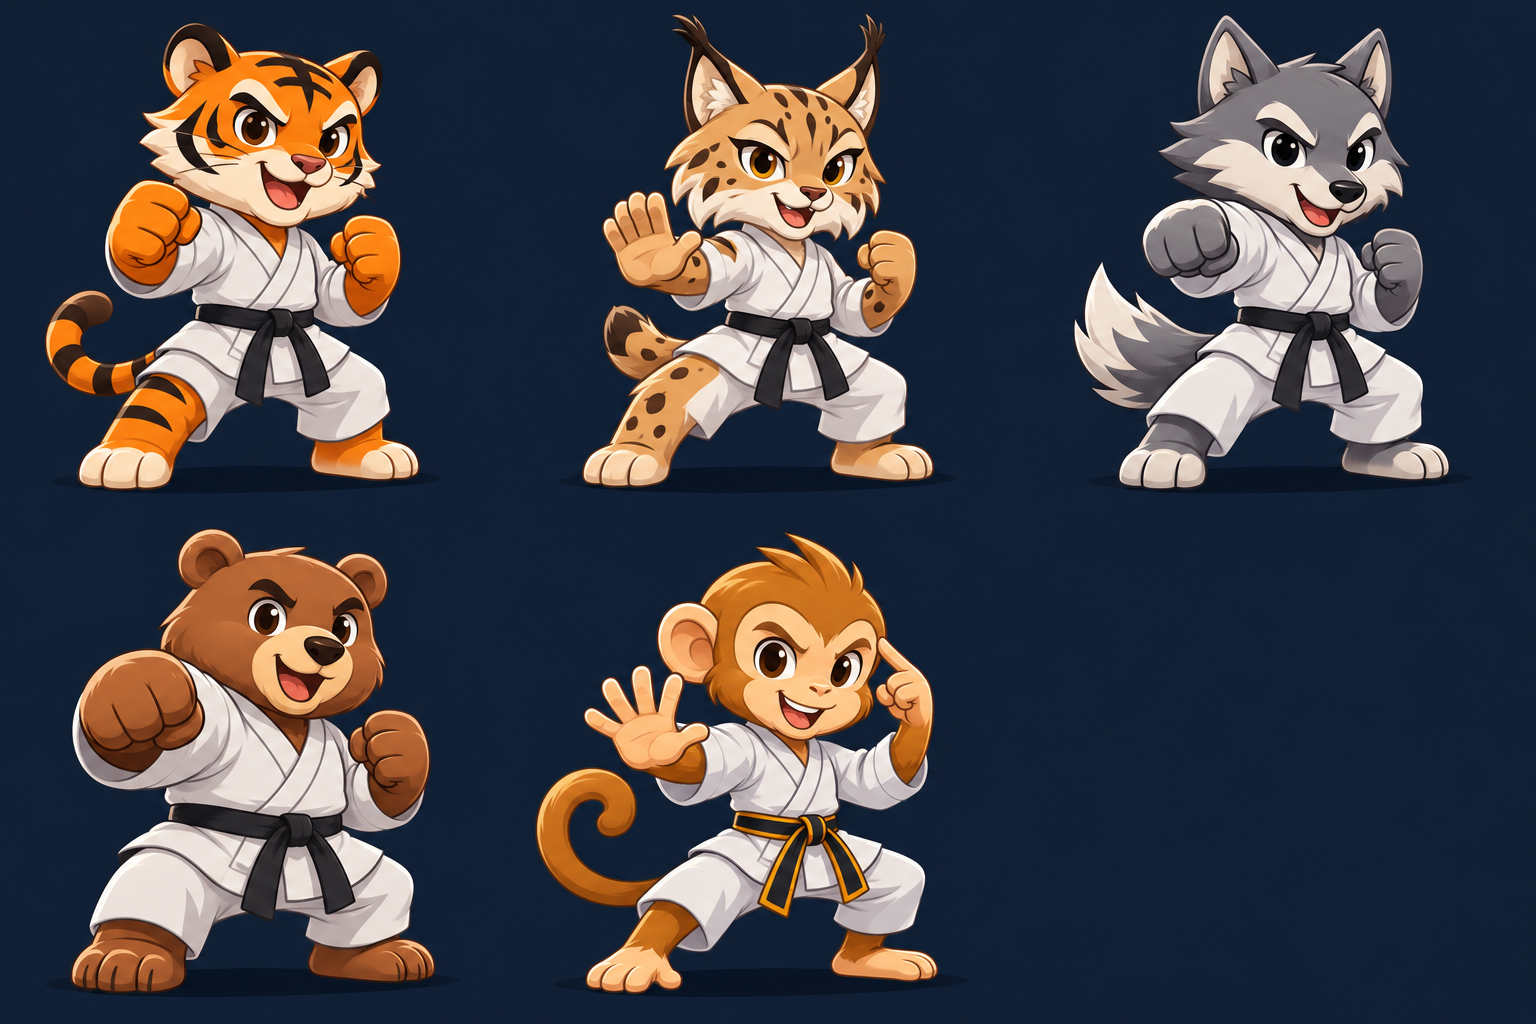
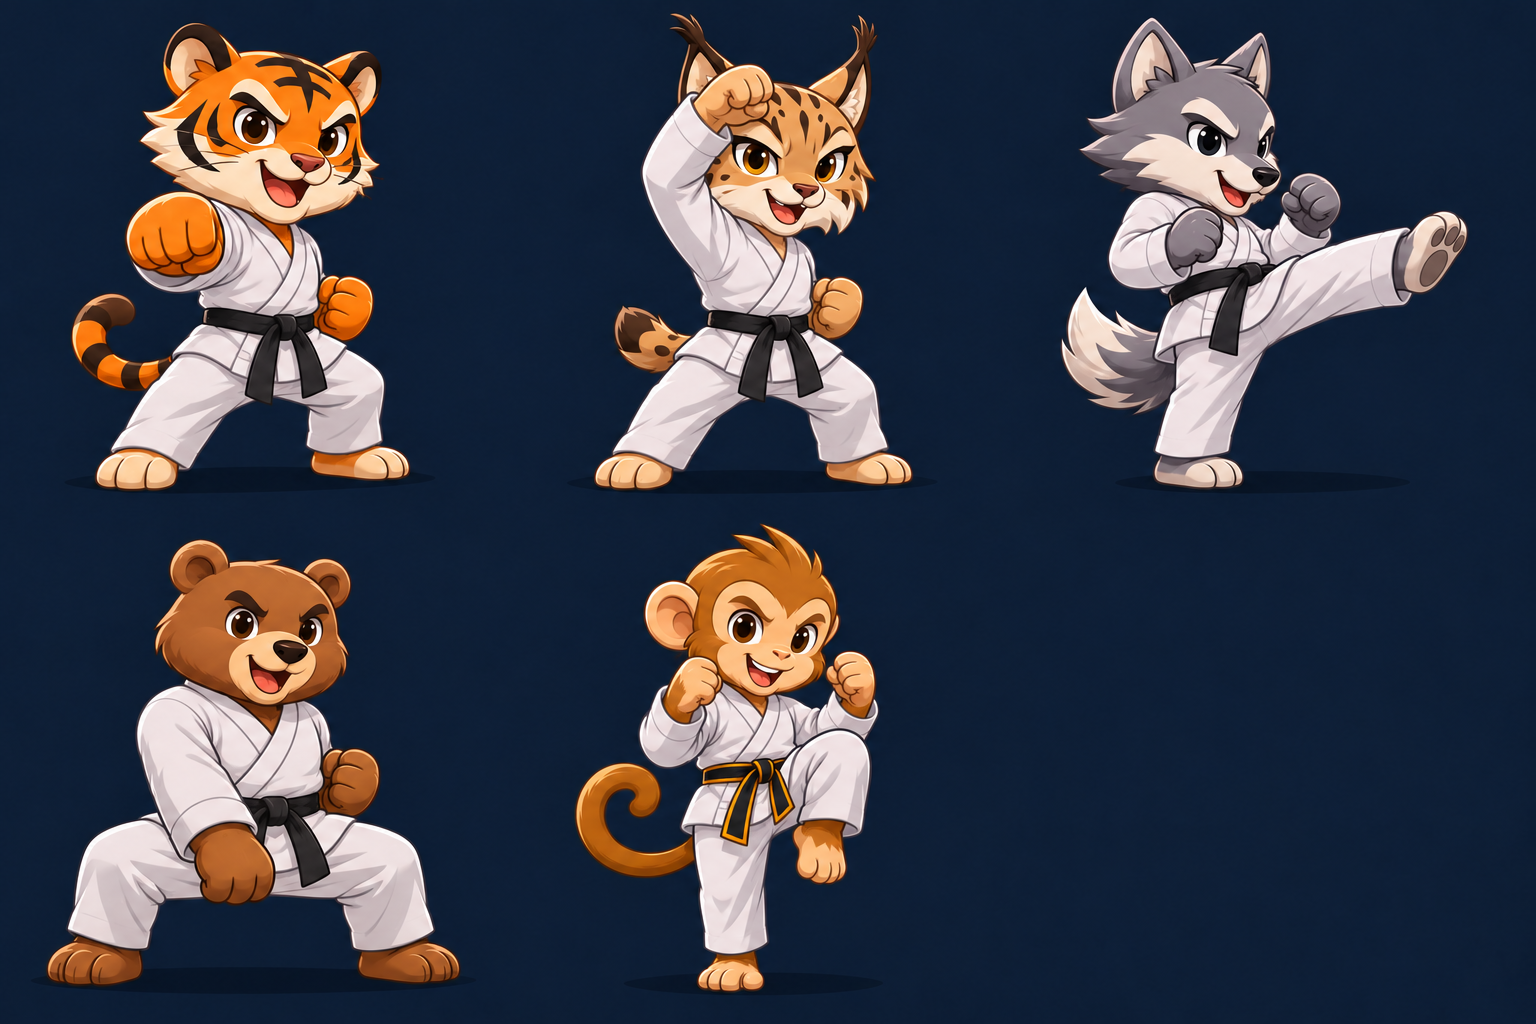
Complete lynx uniform, vary fighter poses and remove price notice

diff --git a/src/shop.js b/src/shop.js
@@ -25,7 +25,7 @@ export function avatar(id,cls=''){
 export function createShop(state,persist){
  ensureCosmetics(state);let message='';
  function view(){const c=ensureCosmetics(state),xp=ensureEconomy(state).xp;
- return `<h1>Магазин скинов</h1><p class="intro">Покупайте аватарки за заработанные XP и выбирайте образ для кумитэ.</p><div class="shop-wallet"><b>${xp} XP</b><span>Доступно для покупок</span></div><div class="notice">Тигр, рысь, волк и медведь — по 170 XP. Обезьяна — 1000 XP.</div><div class="skin-grid">${skinCatalog.map(s=>{const owned=c.owned.includes(s.id),active=c.equipped===s.id;return `<article class="card skin-card" data-shop-skin="${s.id}"><div class="skin-placeholder">${avatar(s.id)}</div><h2>${s.name}</h2><p class="skin-description">${s.description}</p><p>${s.price} XP${owned?' · Куплен':''}</p><button class="${active?'selected':'primary'}" data-action="${owned?'skin-equip':'skin-buy'}:${s.id}" ${active||!owned&&xp<s.price?'disabled':''}>${active?'Выбран':owned?'Выбрать':'Купить за '+s.price+' XP'}</button>${!owned&&xp<s.price?`<p class="muted">Не хватает ${s.price-xp} XP</p>`:''}</article>`;}).join('')}</div><section class="card base-avatar">${avatar('default')}<div><h2>${defaultSkin.name}</h2><p class="muted">${defaultSkin.description}</p><p>Бесплатно</p><button class="secondary" data-action="skin-equip:default" ${c.equipped==='default'?'disabled':''}>${c.equipped==='default'?'Выбрана':'Выбрать базовую'}</button></div></section><p class="feedback" role="status">${message||'Выбранная аватарка передаётся сопернику при создании комнаты или входе в неё.'}</p><p class="muted">Покупки и XP хранятся в этом браузере. Скин не меняет счёт и скорость в кумитэ.</p>`;}
+ return `<h1>Магазин скинов</h1><p class="intro">Покупайте аватарки за заработанные XP и выбирайте образ для кумитэ.</p><div class="shop-wallet"><b>${xp} XP</b><span>Доступно для покупок</span></div><div class="skin-grid">${skinCatalog.map(s=>{const owned=c.owned.includes(s.id),active=c.equipped===s.id;return `<article class="card skin-card" data-shop-skin="${s.id}"><div class="skin-placeholder">${avatar(s.id)}</div><h2>${s.name}</h2><p class="skin-description">${s.description}</p><p>${s.price} XP${owned?' · Куплен':''}</p><button class="${active?'selected':'primary'}" data-action="${owned?'skin-equip':'skin-buy'}:${s.id}" ${active||!owned&&xp<s.price?'disabled':''}>${active?'Выбран':owned?'Выбрать':'Купить за '+s.price+' XP'}</button>${!owned&&xp<s.price?`<p class="muted">Не хватает ${s.price-xp} XP</p>`:''}</article>`;}).join('')}</div><section class="card base-avatar">${avatar('default')}<div><h2>${defaultSkin.name}</h2><p class="muted">${defaultSkin.description}</p><p>Бесплатно</p><button class="secondary" data-action="skin-equip:default" ${c.equipped==='default'?'disabled':''}>${c.equipped==='default'?'Выбрана':'Выбрать базовую'}</button></div></section><p class="feedback" role="status">${message||'Выбранная аватарка передаётся сопернику при создании комнаты или входе в неё.'}</p><p class="muted">Покупки и XP хранятся в этом браузере. Скин не меняет счёт и скорость в кумитэ.</p>`;}
  return {view,handle(a,v){if(a!=='skin-buy'&&a!=='skin-equip')return false;const before={economy:{...ensureEconomy(state)},cosmetics:{owned:[...state.cosmetics.owned],equipped:state.cosmetics.equipped}};
  if(a==='skin-buy'){const r=buySkin(state,v);message=r.message;if(!r.ok)return true;}
  else{if(!equipSkin(state,v)){message='Сначала купите этот скин.';return true;}message='Аватарка выбрана.';}
